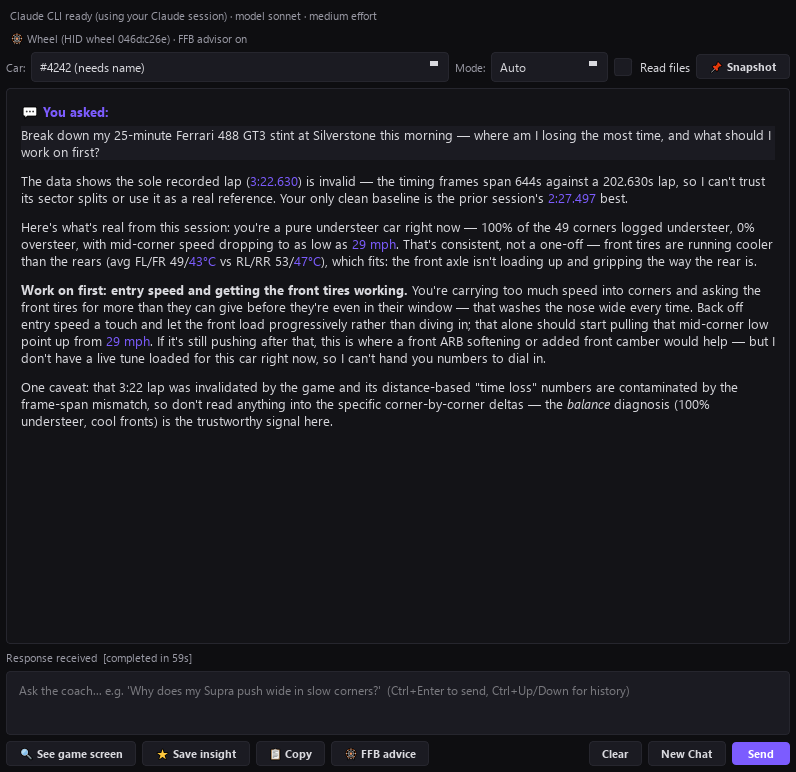
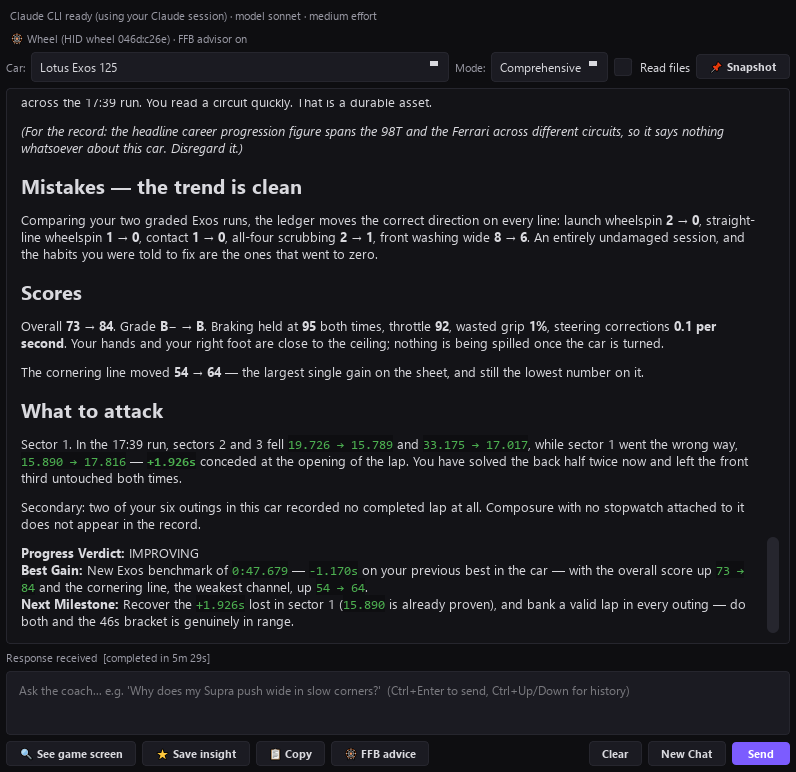
Showcase coach-chat screenshot: Exos 125 progress review
Replaces the invalid-lap answer (led with missing data, unnamed car in the
header) with a Comprehensive-mode progress review of the Lotus Exos 125 at
Red Bull Ring: habits trending to zero, scores 73 -> 84, per-sector deltas
naming sector 1 as the target, and a concrete next-session plan — named car
in the header, generated live through the developer's own Claude session,
output read in full before shipping.

diff --git a/docs/index.html b/docs/index.html
@@ -178,8 +178,8 @@
         <p>RideGuide learns how you drive each car and carries that understanding into every conversation and debrief. Skill scoring across braking, cornering, throttle and consistency tracks your progress session after session.</p>
       </div>
       <div class="feature-media reveal">
-        <div class="frame"><div class="frame-bar"><i></i><i></i><i></i><span>AI coach chat</span></div><img src="assets/shots/coach_chat.webp" srcset="assets/shots/coach_chat_600.webp 600w, assets/shots/coach_chat.webp 796w" sizes="(max-width: 860px) 94vw, 600px" alt="RideGuide coach chat: a real answer diagnosing understeer from 49 logged corners and front-vs-rear tire temperatures, with honest caveats about an invalid lap" width="796" height="772" loading="lazy"></div>
-        <p class="frame-cap">An unscripted answer from a real stint — grounded in the session's corner log and tire temperatures, honest about what the data can't support.</p>
+        <div class="frame"><div class="frame-bar"><i></i><i></i><i></i><span>AI coach chat</span></div><img src="assets/shots/coach_chat.webp" srcset="assets/shots/coach_chat_600.webp 600w, assets/shots/coach_chat.webp 796w" sizes="(max-width: 860px) 94vw, 600px" alt="RideGuide coach chat, Comprehensive mode: a progress review of the Lotus Exos 125 at Red Bull Ring with per-sector time deltas, skill scores rising 73 to 84, and a concrete next-session plan" width="796" height="772" loading="lazy"></div>
+        <p class="frame-cap">An unscripted Comprehensive-mode answer about real sessions, generated through the developer's own Claude account — sector deltas, habit trends and skill scores straight from the recorded laps.</p>
       </div>
     </div>
 
